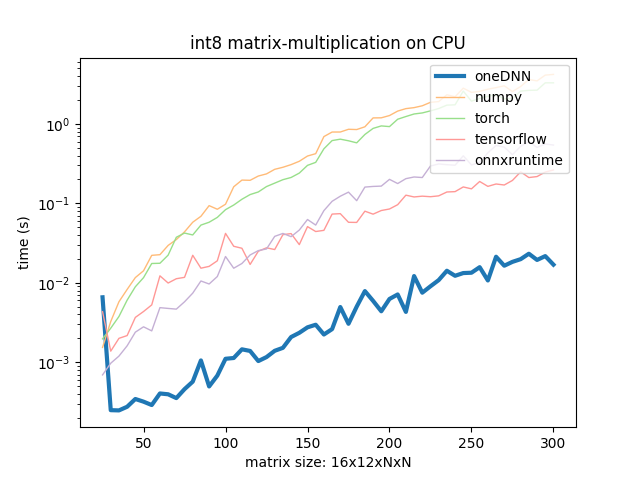
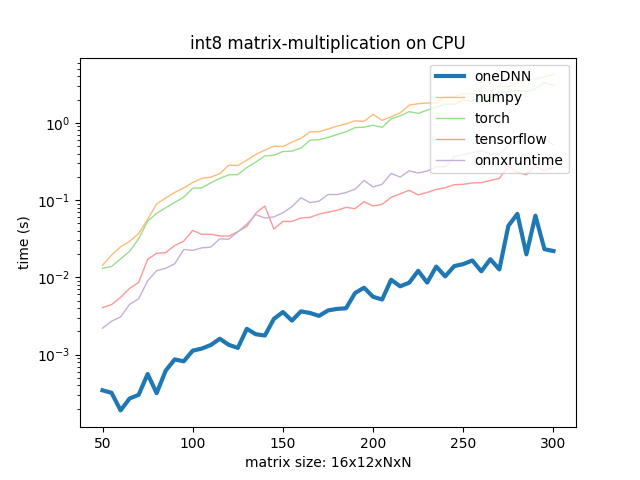
Change parameters in benchmark

diff --git a/benchmark/benchmark_cpu.py b/benchmark/benchmark_cpu.py
@@ -95,7 +95,7 @@ def time_custom_int8_np_matmul(matA: np.ndarray, matB: np.ndarray, repetitions: 
 def run_benchmark(rng):
     max_size = 300
     step = 5
-    N = np.arange(25, max_size + 1, step)
+    N = np.arange(50, max_size + 1, step)
     np_float32_time = np.zeros(N.shape)
     np_int8_time = np.zeros(N.shape)
     torch_int8_time = np.zeros(N.shape)
@@ -111,8 +111,7 @@ def run_benchmark(rng):
         int8_matA = rng.integers(-2**7, 2**7-1, size=(k, l, n, n), dtype=np.int8)
         int8_matB = rng.integers(-2**7, 2**7-1, size=(k, l, n, n), dtype=np.int8)
 
-        # repetitions = len(N) - i
-        repetitions = 1
+        repetitions = len(N) - i
 
         np_float32_time[i] = time_numpy_matmul(float32_matA, float32_matB, repetitions)
 
@@ -121,8 +120,6 @@ def run_benchmark(rng):
         tensorflow_int8_time[i] = time_tensorflow_int8_matmul(int8_matA, int8_matB, repetitions)
         onnxruntime_int8_time[i] = time_onnx_int8_matmul(int8_matA, int8_matB, repetitions)
         custom_int8_np_time[i] = time_custom_int8_np_matmul(int8_matA, int8_matB, repetitions)
-
-    plot("numpy: int8 vs float32 matrix-multiplication on CPU")
 
     plot("int8 matrix-multiplication on CPU\nnormalized to np-float32",
          "result_normalized.png",
